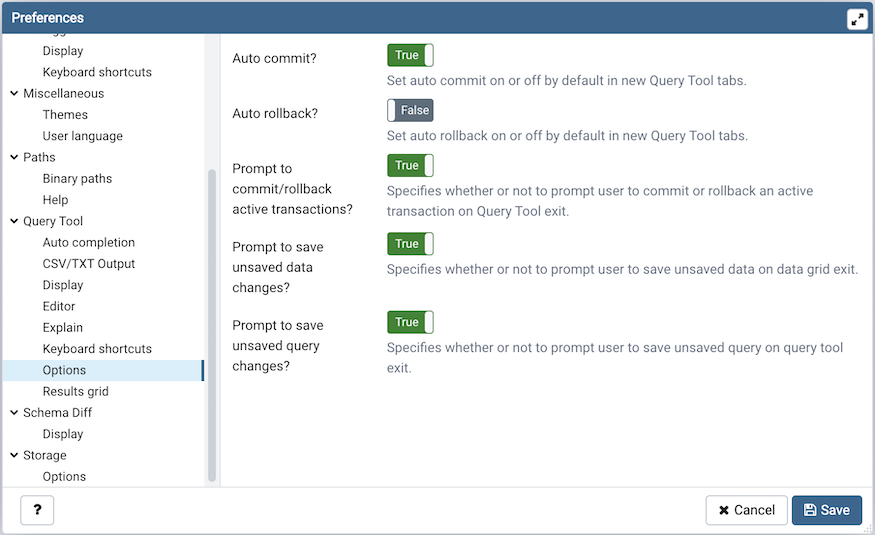
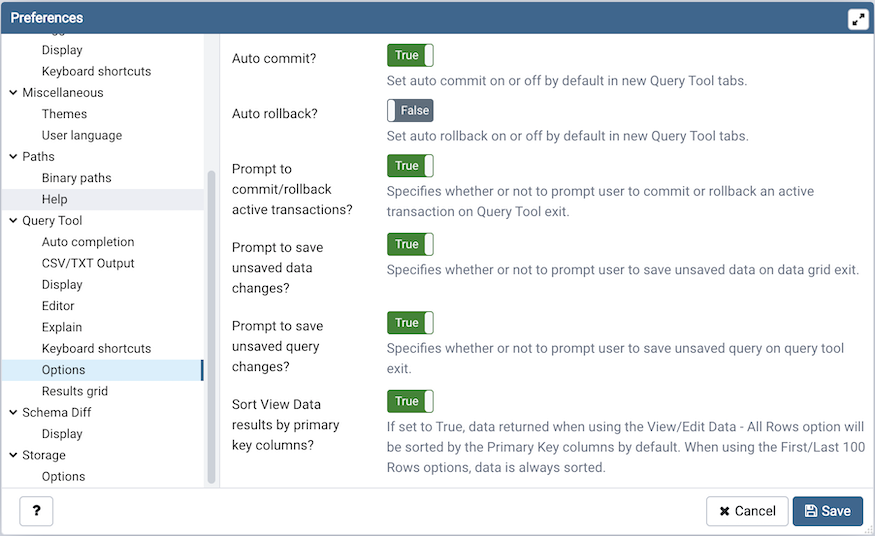
Ensure that default sort order should be using the primary key in View/Edit data. Fixes #5157

diff --git a/web/pgadmin/tools/sqleditor/tests/test_view_data.py b/web/pgadmin/tools/sqleditor/tests/test_view_data.py
@@ -10,6 +10,7 @@
 import uuid
 import json
 import random
+import sys
 
 from pgadmin.utils.route import BaseTestGenerator
 from pgadmin.browser.server_groups.servers.databases.tests import utils as \
@@ -17,6 +18,11 @@ from pgadmin.browser.server_groups.servers.databases.tests import utils as \
 from regression import parent_node_dict
 from regression.python_test_utils import test_utils
 from pgadmin.utils import server_utils, IS_PY2
+
+if sys.version_info < (3, 3):
+    from mock import patch
+else:
+    from unittest.mock import patch
 
 
 class TestViewData(BaseTestGenerator):
@@ -35,6 +41,34 @@ class TestViewData(BaseTestGenerator):
                 );""",
                 result_data='SELECT 0',
                 rows_fetched_to=0
+            )
+        ),
+        (
+            'Sort table data without primary key in the table',
+            dict(
+                table_sql="""Create Table <TABLE_NAME>(
+                        id integer Not Null,
+                        json_val json Not Null
+                        );""",
+                result_data='SELECT 0',
+                rows_fetched_to=0
+            )
+        ),
+        (
+            'Sort table data by default order with primary key in table',
+            dict(
+                table_sql="""Create Table <TABLE_NAME>(
+                                   id integer Not Null,
+                                   json_val json Not Null,
+                                   Constraint table_pk_sort Primary Key(id)
+                                   );""",
+                result_data='SELECT 0',
+                rows_fetched_to=0,
+                mock_data={
+                    'function_to_be_mocked': "pgadmin.utils.preferences."
+                                             "_Preference.get",
+                    'return_value': False
+                }
             )
         )
     ]
@@ -71,10 +105,18 @@ class TestViewData(BaseTestGenerator):
 
         # Initialize query tool
         self.trans_id = str(random.randint(1, 9999999))
-        url = '/datagrid/initialize/datagrid/{0}/3/table/{1}/{2}/{3}/{4}'\
+        url = '/datagrid/initialize/datagrid/{0}/3/table/{1}/{2}/{3}/{4}' \
             .format(self.trans_id, test_utils.SERVER_GROUP, self.server_id,
                     self.db_id, table_id)
-        response = self.tester.post(url)
+
+        if hasattr(self, 'mock_data'):
+            with patch(
+                self.mock_data['function_to_be_mocked'],
+                return_value=self.mock_data['return_value']
+            ):
+                response = self.tester.post(url)
+        else:
+            response = self.tester.post(url)
 
         self.assertEquals(response.status_code, 200)
 

diff --git a/web/pgadmin/tools/sqleditor/command.py b/web/pgadmin/tools/sqleditor/command.py
@@ -23,6 +23,7 @@ from pgadmin.tools.sqleditor.utils.is_query_resultset_updatable \
     import is_query_resultset_updatable
 from pgadmin.tools.sqleditor.utils.save_changed_data import save_changed_data
 from pgadmin.tools.sqleditor.utils.get_column_types import get_columns_types
+from pgadmin.utils.preferences import Preferences
 
 from config import PG_DEFAULT_DRIVER
 
@@ -463,6 +464,11 @@ class TableCommand(GridCommand):
         # call base class init to fetch the table name
         super(TableCommand, self).__init__(**kwargs)
 
+        # Set the default sorting on table data by primary key if user
+        # preference value is set
+        self.data_sorting_by_pk = Preferences.module('sqleditor').preference(
+            'table_view_data_by_pk').get()
+
     def get_sql(self, default_conn=None):
         """
         This method is used to create a proper SQL query
@@ -486,7 +492,7 @@ class TableCommand(GridCommand):
         if data_sorting is None and \
             not self.is_sorting_set_from_filter_dialog() \
             and (self.cmd_type in (VIEW_FIRST_100_ROWS, VIEW_LAST_100_ROWS) or
-                 (self.cmd_type == VIEW_ALL_ROWS and self.limit > 0)):
+                 (self.cmd_type == VIEW_ALL_ROWS and self.data_sorting_by_pk)):
             sorting = {'data_sorting': []}
             for pk in primary_keys:
                 sorting['data_sorting'].append(

diff --git a/web/pgadmin/tools/sqleditor/utils/query_tool_preferences.py b/web/pgadmin/tools/sqleditor/utils/query_tool_preferences.py
@@ -100,6 +100,17 @@ def RegisterQueryToolPreferences(self):
         )
     )
 
+    self.table_view_data_by_pk = self.preference.register(
+        'Options', 'table_view_data_by_pk',
+        gettext("Sort View Data results by primary key columns?"),
+        'boolean', True,
+        category_label=gettext('Options'),
+        help_str=gettext("If set to True, data returned when using the "
+                         "View/Edit Data - All Rows option will be sorted by "
+                         "the Primary Key columns by default. When using the "
+                         "First/Last 100 Rows options, data is always sorted.")
+    )
+
     self.show_prompt_save_data_changes = self.preference.register(
         'Options', 'prompt_save_data_changes',
         gettext("Prompt to save unsaved data changes?"), 'boolean', True,

diff --git a/docs/en_US/release_notes_4_21.rst b/docs/en_US/release_notes_4_21.rst
@@ -54,6 +54,7 @@ Bug fixes
 | `Issue #4969 <https://redmine.postgresql.org/issues/4969>`_ -  Fixed an issue where changing the values of columns with JSONB or JSON types to NULL.
 | `Issue #5007 <https://redmine.postgresql.org/issues/5007>`_ -  Ensure index dropdown should have existing indexes while creating unique constraints.
 | `Issue #5053 <https://redmine.postgresql.org/issues/5053>`_ -  Fixed an issue where changing the columns in the existing view throws an error.
+| `Issue #5157 <https://redmine.postgresql.org/issues/5157>`_ -  Ensure that default sort order should be using the primary key in View/Edit data.
 | `Issue #5180 <https://redmine.postgresql.org/issues/5180>`_ -  Fixed an issue where the autovacuum_enabled parameter is added automatically in the RE-SQL when the table has been created using the WITH clause.
 | `Issue #5210 <https://redmine.postgresql.org/issues/5210>`_ -  Ensure that text larger than underlying field size should not be truncated automatically.
 | `Issue #5227 <https://redmine.postgresql.org/issues/5227>`_ -  Fixed an issue where user cannot be added if many users are already exists.

diff --git a/docs/en_US/preferences.rst b/docs/en_US/preferences.rst
@@ -355,6 +355,11 @@ Use the fields on the *Options* panel to manage editor preferences.
   *True*, the editor will prompt the user to commit or rollback changes when
   exiting the Query Tool while the current transaction is not committed.
 
+* When the *Sort View Data results by primary key columns?* If set to *True*,
+  data returned when using the View/Edit Data - All Rows option will be sorted
+  by the Primary Key columns by default. When using the First/Last 100 Rows options,
+  data is always sorted.
+
 .. image:: images/preferences_sql_results_grid.png
     :alt: Preferences dialog sql results grid section
     :align: center
